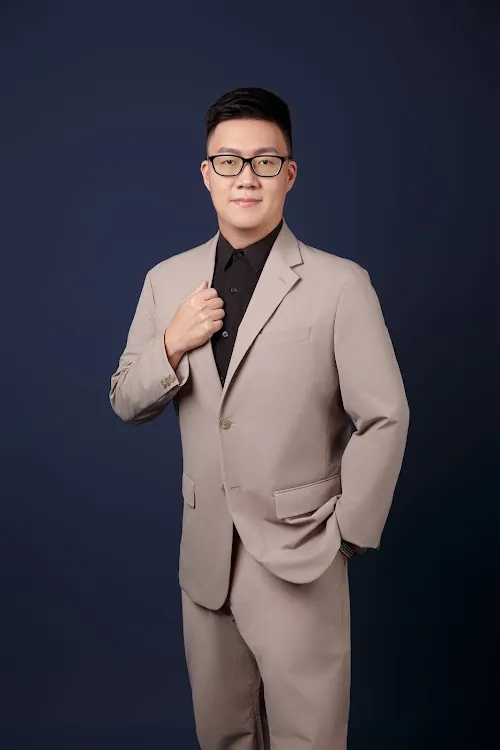
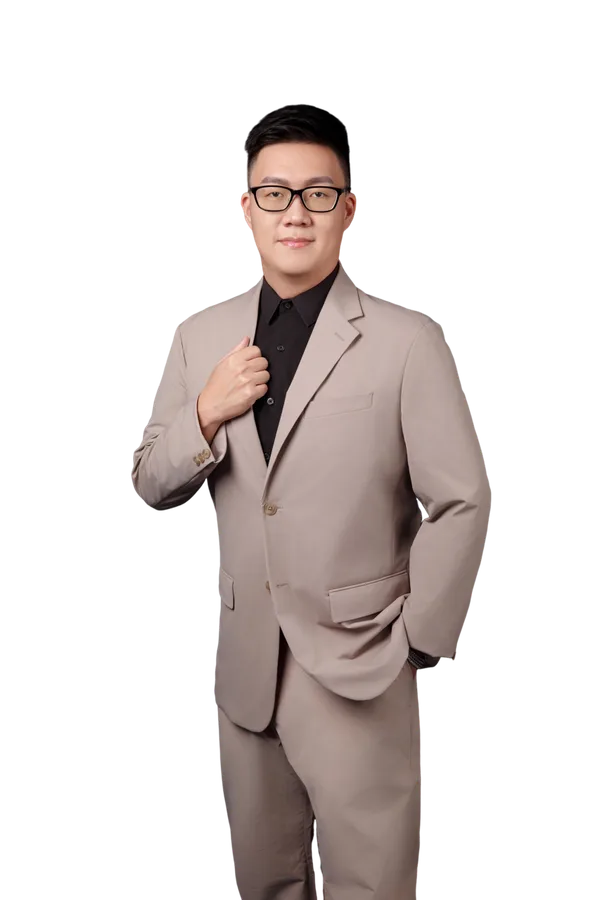
feat: 顧問團隊照片全數改為本站資產（5 張 WebP，移除 Google Drive 外連）

diff --git a/網站維護手冊.md b/網站維護手冊.md
@@ -40,7 +40,7 @@
 1. **單張圖片控制在 300KB 以下**，格式優先 WebP
 2. 手機照片直接上傳前先壓縮，或上傳後請 AI 跑：
    `node scripts/optimize-images.mjs`（會自動轉 WebP + 縮尺寸）
-3. 團隊成員照片目前有 3 張是 Google Drive 外連 → 建議改為後台上傳本站圖（待辦）
+3. 團隊成員照片已全數改為本站圖（2026-07）；日後換照片從後台「👥 專業顧問團隊」上傳即可
 
 ---
 
@@ -129,5 +129,5 @@
 - [ ] 上線後：GSC/Bing 提交（Feba 照《SEO設定指南.md》操作一次）
 - [ ] 上線後：實測正式站 `/admin/` OAuth 登入流程
 - [ ] 註冊週更 AI 產文排程（文章以 draft 進 CMS，Feba 審核發布）
-- [ ] 團隊 3 張 Google Drive 外連照片改為本站資產
+- [x] 團隊照片全數改為本站資產（2026-07-12，5 位顧問照片已 WebP 化存於 /images/team/）
 - [ ] 清理 repo 舊檔：根目錄舊版 `index.html`、`check_out.txt`、`favion.png`
